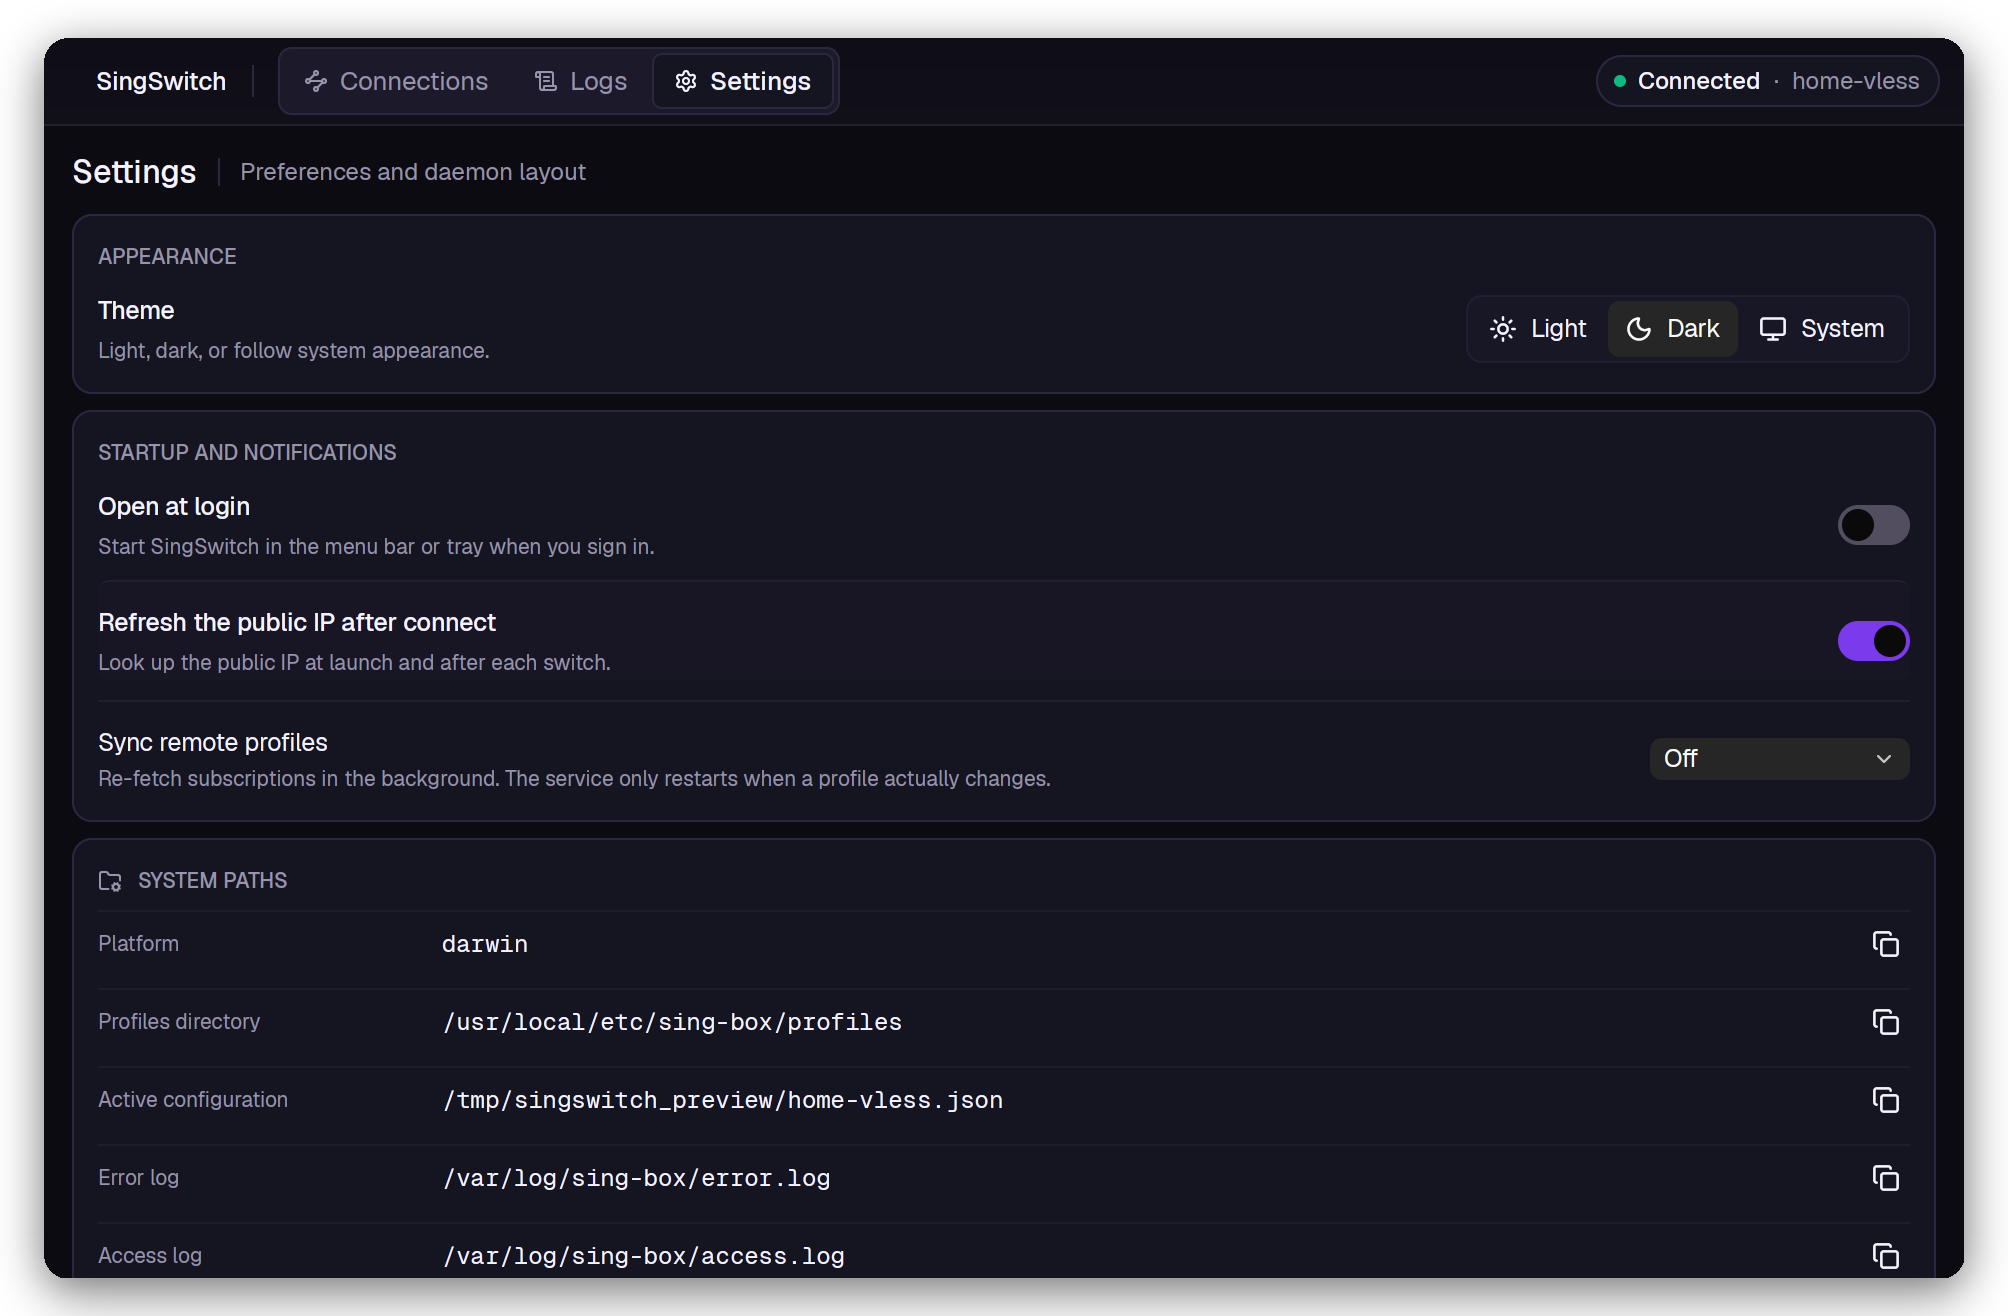
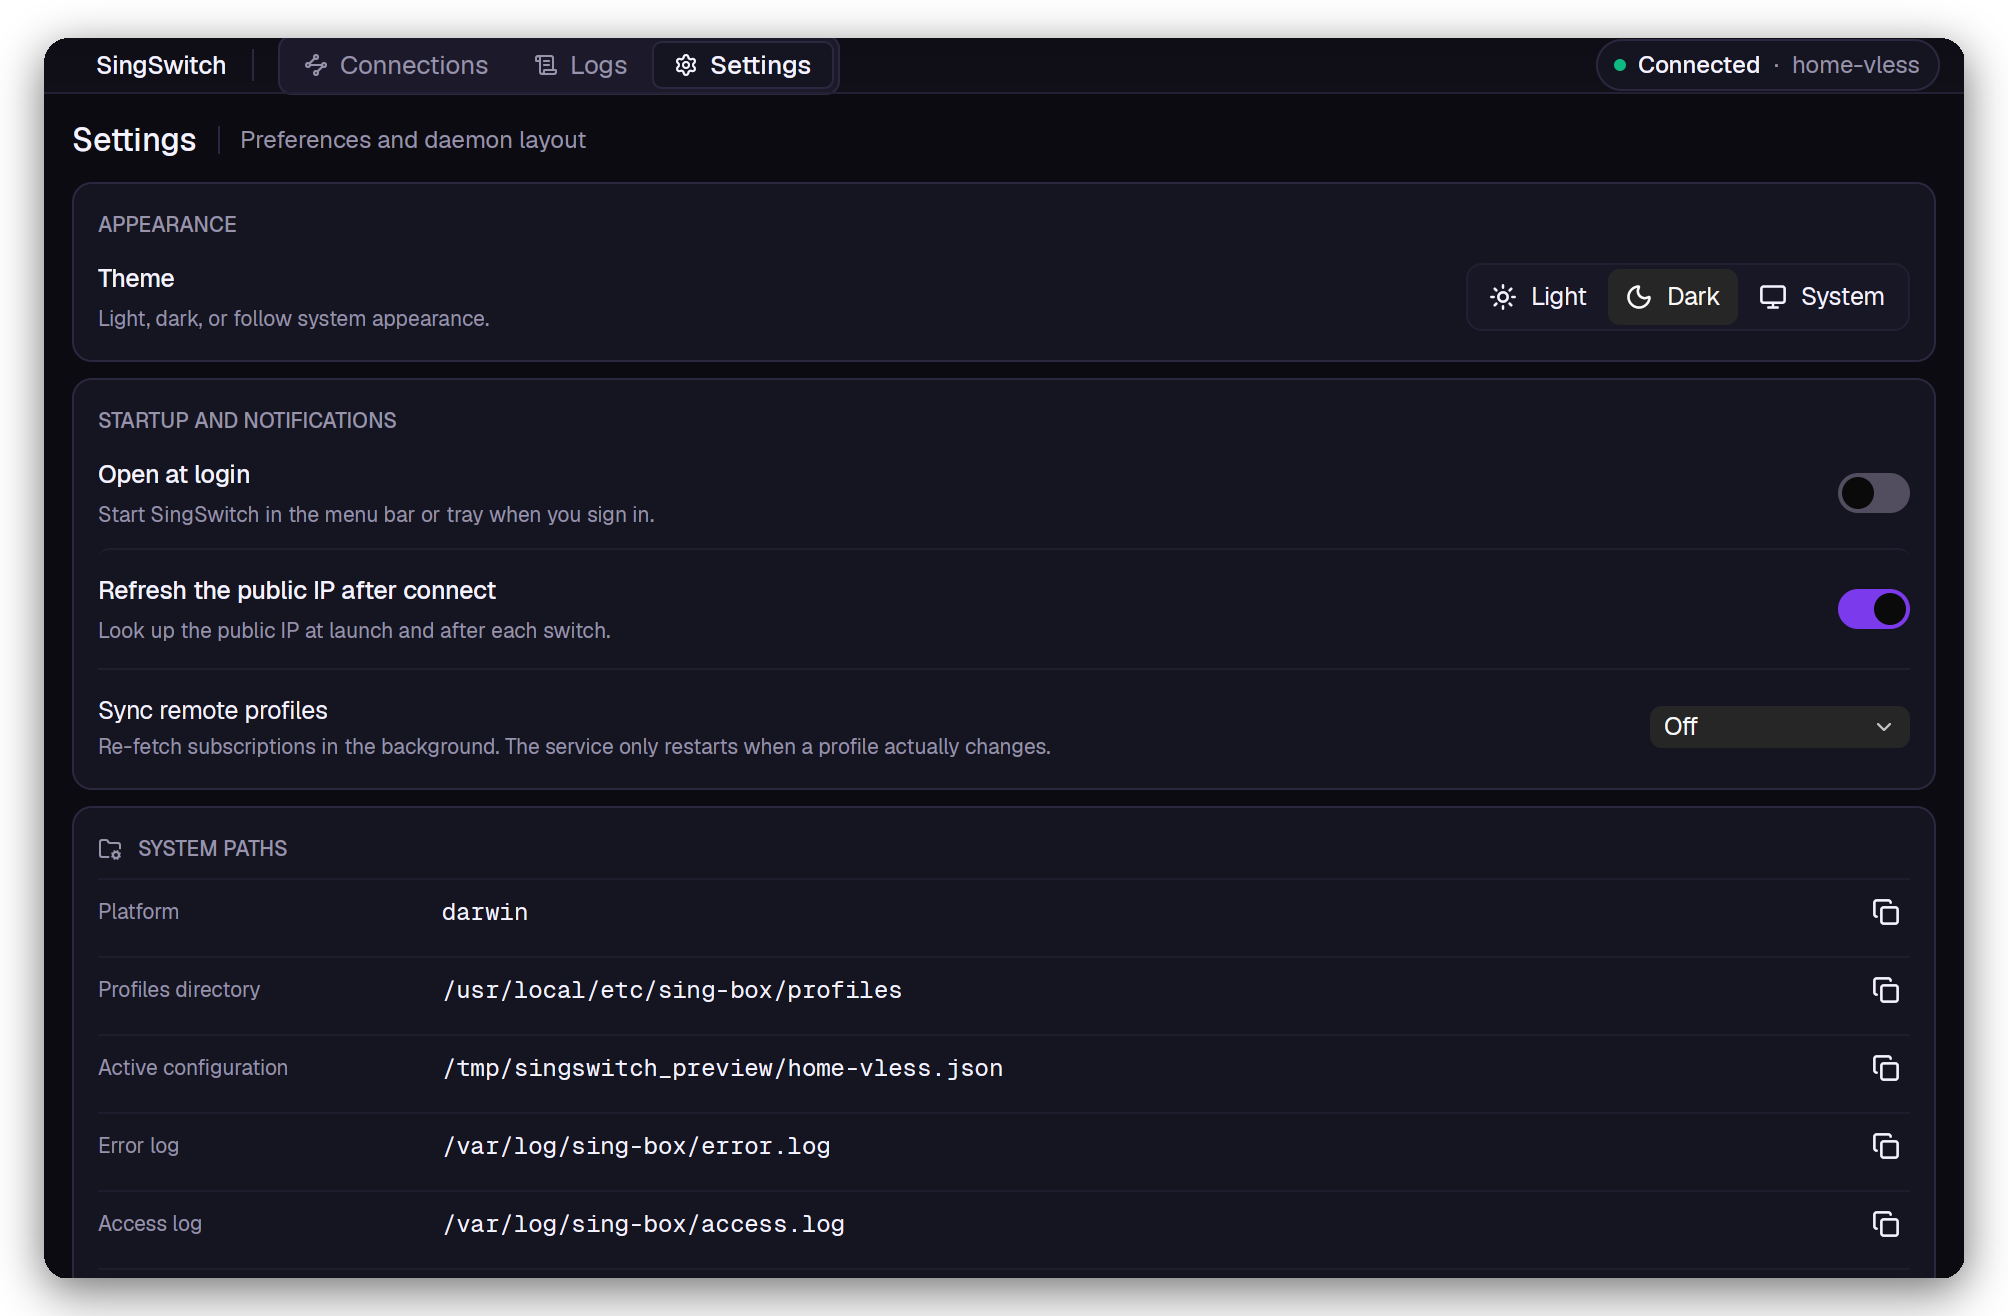
fix(macos): native traffic-light placement and 28px title bar
Window options now set traffic_light_position to AppKit's default
(20, 12) instead of the component's (9, 9), and the custom TitleBar is
28px tall (AppKit's native height) instead of 44px. The nav row starts
after a 78px left inset on macOS so no tab sits under the buttons, and
the segmented tabs are 24px so they center on the same midline as the
traffic lights.

Screenshots regenerated; gate green.

diff --git a/crates/singswitch-app/src/preview.rs b/crates/singswitch-app/src/preview.rs
@@ -151,7 +151,7 @@ fn setup_populated_snapshot(s: &mut AppStore) {
   "log": { "level": "info", "timestamp": true },
   "dns": {
     "servers": [
-      { "type": "https", "tag": "cloudflare-doh", "server": "1.1.1.1", "detour": "proxy" },
+      { "type": "https", "tag": "cloudflare-doh", "server": "192.0.2.1", "detour": "proxy" },
       { "type": "local", "tag": "local-dns", "detour": "direct" }
     ],
     "strategy": "ipv4_only",
@@ -173,7 +173,7 @@ fn setup_populated_snapshot(s: &mut AppStore) {
     {
       "type": "vless",
       "tag": "proxy",
-      "server": "104.28.19.42",
+      "server": "192.0.2.10",
       "server_port": 443,
       "uuid": "a1b2c3d4-e5f6-7890-abcd-ef1234567890",
       "flow": "xtls-rprx-vision",
@@ -221,7 +221,7 @@ fn setup_populated_snapshot(s: &mut AppStore) {
         config_parsed: true,
         facts: ConfigFacts {
             outbound_type: Some("vless".into()),
-            endpoint: Some("104.28.19.42:443".into()),
+            endpoint: Some("192.0.2.10:443".into()),
             tun_interface: Some("utun123".into()),
             has_tun_inbound: true,
         },
@@ -235,7 +235,7 @@ fn setup_populated_snapshot(s: &mut AppStore) {
         config_parsed: true,
         facts: ConfigFacts {
             outbound_type: Some("hysteria2".into()),
-            endpoint: Some("162.159.192.1:8443".into()),
+            endpoint: Some("198.51.100.23:8443".into()),
             tun_interface: Some("utun123".into()),
             has_tun_inbound: true,
         },
@@ -249,7 +249,7 @@ fn setup_populated_snapshot(s: &mut AppStore) {
         config_parsed: true,
         facts: ConfigFacts {
             outbound_type: Some("vless".into()),
-            endpoint: Some("198.41.200.5:443".into()),
+            endpoint: Some("203.0.113.7:443".into()),
             tun_interface: Some("utun123".into()),
             has_tun_inbound: true,
         },
@@ -263,7 +263,7 @@ fn setup_populated_snapshot(s: &mut AppStore) {
         config_parsed: true,
         facts: ConfigFacts {
             outbound_type: Some("shadowsocks".into()),
-            endpoint: Some("45.76.12.89:8388".into()),
+            endpoint: Some("192.0.2.44:8388".into()),
             tun_interface: None,
             has_tun_inbound: true,
         },
@@ -288,7 +288,7 @@ fn setup_populated_snapshot(s: &mut AppStore) {
             profile: Some("home-vless".to_string()),
             running: true,
             tun: Some("utun123".to_string()),
-            server: Some("104.28.19.42:443".to_string()),
+            server: Some("192.0.2.10:443".to_string()),
             pid: Some(18420),
             missing: Vec::new(),
             broken: None,
@@ -313,7 +313,7 @@ fn setup_populated_snapshot(s: &mut AppStore) {
         },
     );
     s.ip_info = Some(IpInfo {
-        ip: "103.219.171.115".to_string(),
+        ip: "198.51.100.99".to_string(),
         city: "Singapore".to_string(),
         region: "Central".to_string(),
         country: "SG".to_string(),
@@ -342,15 +342,15 @@ fn setup_sample_logs(s: &mut AppStore) {
         ),
         (
             LogLevel::Info,
-            "14:22:01.140 [outbound/vless-out] TLS Reality handshake completed with 104.28.19.42:443",
+            "14:22:01.140 [outbound/vless-out] TLS Reality handshake completed with 192.0.2.10:443",
         ),
         (
             LogLevel::Info,
-            "14:22:02.320 [inbound/tun-in] connection from 198.18.0.1:52194 to tcp:1.1.1.1:443 routed to [outbound/vless-out]",
+            "14:22:02.320 [inbound/tun-in] connection from 203.0.113.55:52194 to tcp:192.0.2.1:443 routed to [outbound/vless-out]",
         ),
         (
             LogLevel::Info,
-            "14:22:05.811 [dns] query response: resolved api.github.com to 140.82.121.4 (via remote DNS)",
+            "14:22:05.811 [dns] query response: resolved api.github.com to 198.51.100.4 (via remote DNS)",
         ),
         (
             LogLevel::Warn,
@@ -366,7 +366,7 @@ fn setup_sample_logs(s: &mut AppStore) {
         ),
         (
             LogLevel::Info,
-            "14:23:06.015 [outbound/vless-out] re-established connection to 104.28.19.42:443 (tls reality)",
+            "14:23:06.015 [outbound/vless-out] re-established connection to 192.0.2.10:443 (tls reality)",
         ),
         (
             LogLevel::Info,

diff --git a/crates/singswitch-app/src/views/mod.rs b/crates/singswitch-app/src/views/mod.rs
@@ -130,6 +130,10 @@ impl WorkspaceShell {
             .flex_1()
             .h_full()
             .items_center()
+            // macOS reserves the left ~78px of a 28px title bar for the
+            // traffic lights; start the nav after that so nothing sits under
+            // the buttons.
+            .when(cfg!(target_os = "macos"), |nav| nav.pl(px(78.0)))
             .pr(px(12.0))
             .child(
                 h_flex()
@@ -150,7 +154,7 @@ impl WorkspaceShell {
                             .items_center()
                             .gap(px(6.0))
                             .px(px(10.0))
-                            .h(px(28.0))
+                            .h(px(24.0))
                             .rounded(px(5.0))
                             .cursor_pointer()
                             .bg(if is_active {
@@ -223,17 +227,18 @@ impl Render for WorkspaceShell {
             .font_family(fonts::ui_family())
             .text_size(px(14.0))
             .child(if cfg!(target_os = "macos") {
-                // The stock bar is 34px; 40px gives the nav row real air
-                // instead of sitting on the border.
+                // 28px is AppKit's native title bar height; with the traffic
+                // lights at (20, 12) the 28px nav tabs sit centered on the same
+                // midline as the buttons.
                 {
                     let mut bar = TitleBar::new();
-                    bar.style().size.height = Some(px(44.0).into());
+                    bar.style().size.height = Some(px(28.0).into());
                     bar.child(self.render_navigation(cx))
                 }
             } else {
                 {
                     let mut bar = TitleBar::new();
-                    bar.style().size.height = Some(px(44.0).into());
+                    bar.style().size.height = Some(px(28.0).into());
                     bar.child(
                         h_flex()
                             .size_full()

diff --git a/crates/singswitch-app/src/main.rs b/crates/singswitch-app/src/main.rs
@@ -27,7 +27,6 @@ mod views;
 
 #[cfg(any(target_os = "macos", windows, target_os = "linux"))]
 mod desktop {
-    use gpui_kit::component::TitleBar;
     use gpui_kit::{
         AnyWindowHandle, App, AppContext as _, Entity, Global, KeyBinding, QuitMode, WindowBounds,
         WindowOptions, open_window, px, size,
@@ -268,7 +267,17 @@ mod desktop {
         let options = WindowOptions {
             window_bounds: Some(WindowBounds::centered(size(px(width), px(height)), cx)),
             window_min_size: Some(size(px(MIN_WINDOW_WIDTH), px(MIN_WINDOW_HEIGHT))),
-            ..TitleBar::window_options()
+            // Native-feel traffic lights: standard 28px title bar height with
+            // AppKit's default (20, 12) offset, so the buttons sit exactly where
+            // every other macOS app puts them. The custom TitleBar's own height is
+            // set in views/mod.rs to match.
+            titlebar: Some(gpui_kit::TitlebarOptions {
+                title: Some("SingSwitch".into()),
+                appears_transparent: true,
+                traffic_light_position: Some(gpui_kit::point(px(20.0), px(12.0))),
+            }),
+            app_owns_titlebar_drag: true,
+            ..Default::default()
         };
 
         match open_window(options, cx, move |window, cx| {
